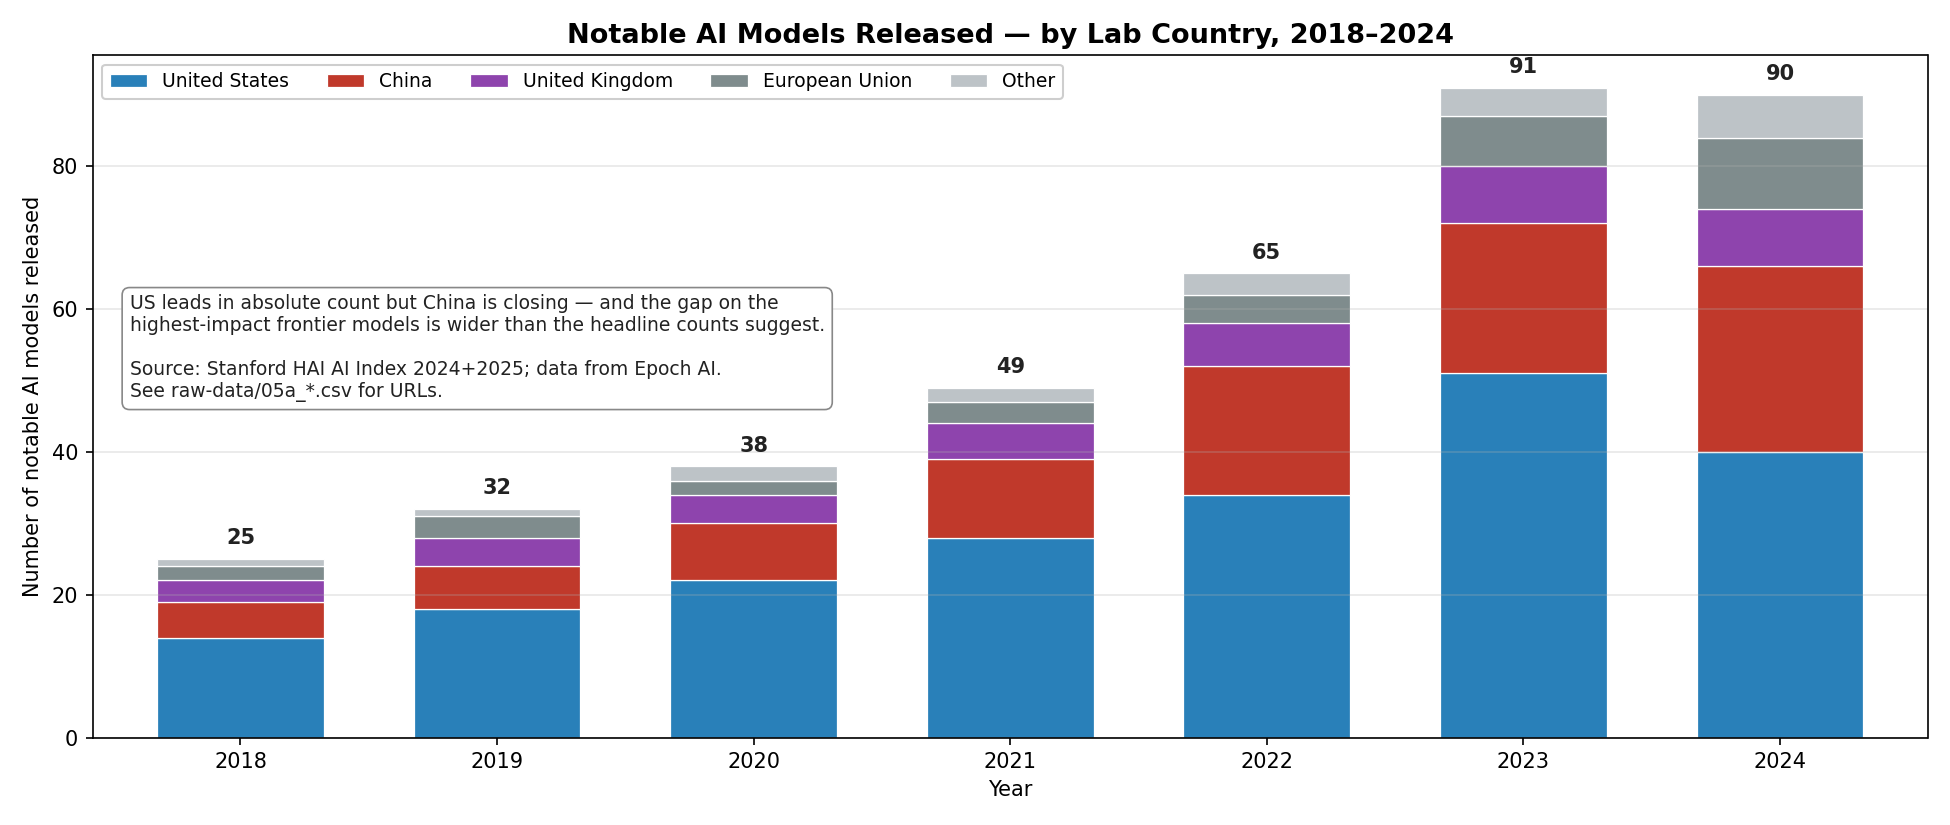
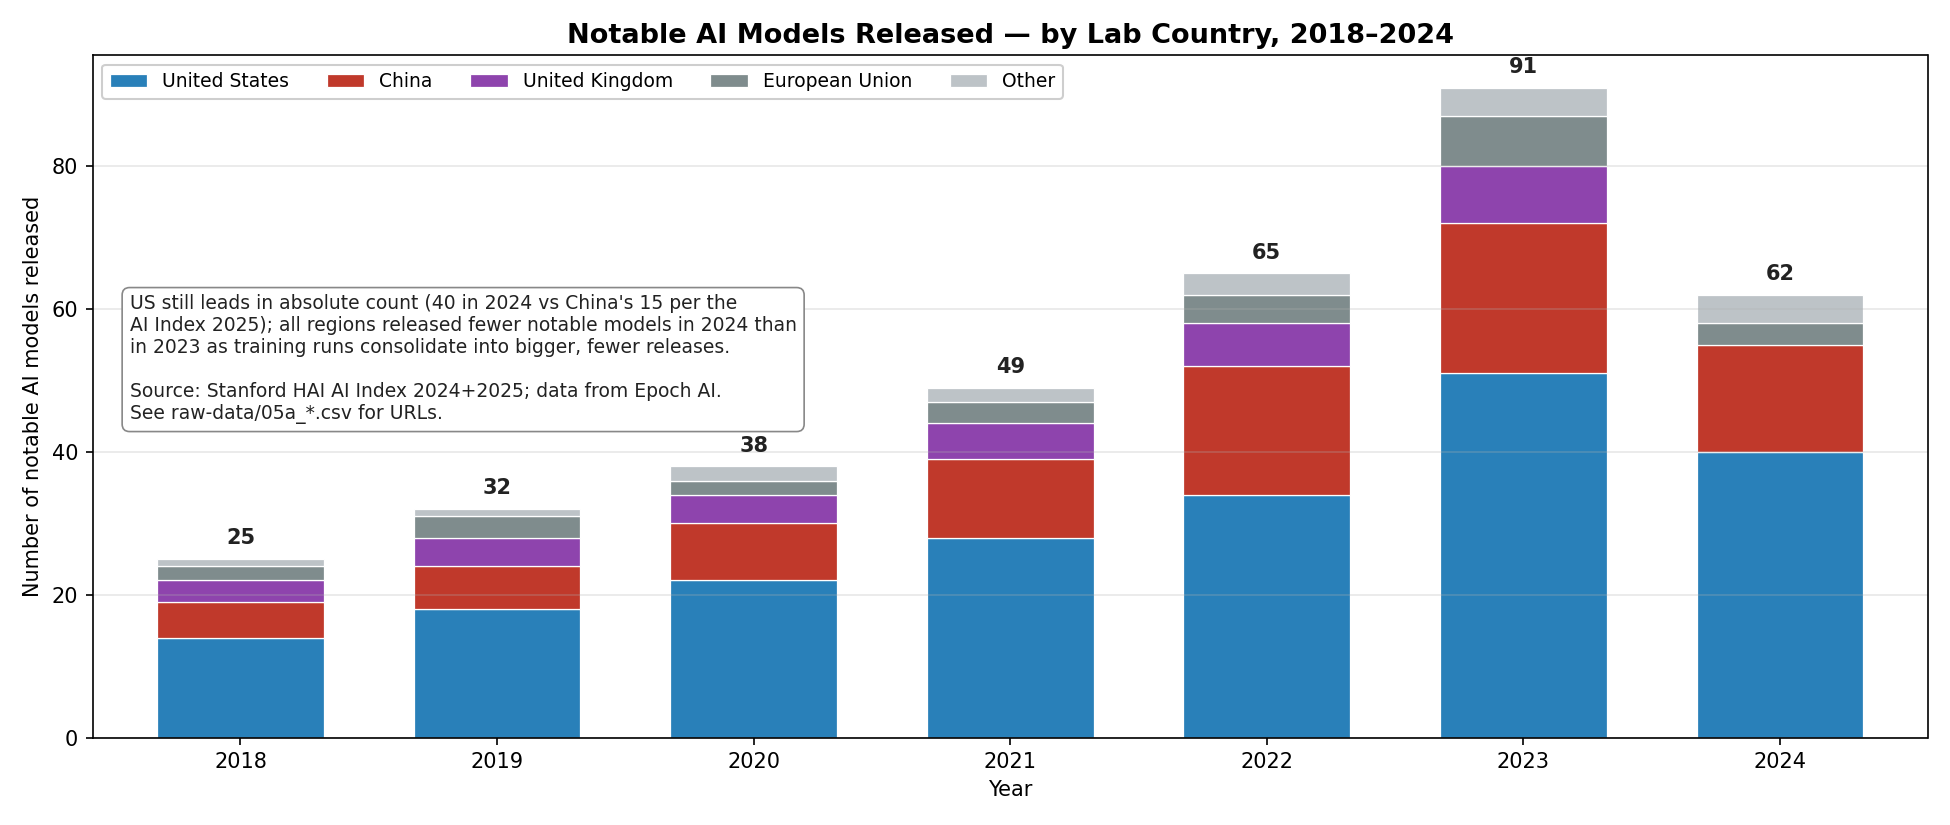
Correct §6 AI figures against cited sources
Re-verified chapter 5 (AI) CSVs against Stanford AI Index 2025 (Ch.1
PDF) and WIPO Patent Landscape Report on Generative AI 2024 (PDF
Figure 17a). Three values did not match their cited sources and have
been corrected:

- 05a (notable AI models, 2024): was US 40 / CN 26 / UK 8 / EU 10 /
  Other 6. AI Index 2025 reports US 40 / CN 15 / France 3 / Canada,
  Israel, Saudi Arabia, Korea 1 each.
- 05c (GenAI patents): the prior time-series treated WIPO's 38,210
  China / 6,276 US figures as 2023 annual when they are cumulative
  2014–2023 totals. Restructured CSV to a single cumulative ranking
  using WIPO Figure 17a exact values; chart rebuilt as horizontal bar.
- 05d (private AI investment, 2024): was US 109 / CN 12 / UK 5 (~9x
  ratio). AI Index 2025 reports US 109.1 / CN 9.3 / UK 4.5 (~12x).

Updated report §6 text and chart annotations to match. Other ~50 CSVs
in the brief were spot-checked against their cited sources (World
Bank API re-fetched for ch.01/02/11f; IEA CMO 2024 / USGS rare earths
/ Ember / IFR / Synergy / CSIS Red Ink / NBS / China Customs / BNEF
press releases) and match within rounding — no other corrections
needed.

Changed region(s): [[0.0615, 0.3333, 0.4308, 0.5455], [0.8615, 0.0606, 0.9538, 0.4242]]

diff --git a/china-industry/05_ai.py b/china-industry/05_ai.py
@@ -68,8 +68,9 @@ for i, t in enumerate(totals):
     ax.text(i, t + 1.5, f"{t}", ha="center", va="bottom",
             fontsize=10, color="#222", fontweight="bold")
 ax.annotate(
-    "US leads in absolute count but China is closing — and the gap on the\n"
-    "highest-impact frontier models is wider than the headline counts suggest.\n\n"
+    "US still leads in absolute count (40 in 2024 vs China's 15 per the\n"
+    "AI Index 2025); all regions released fewer notable models in 2024 than\n"
+    "in 2023 as training runs consolidate into bigger, fewer releases.\n\n"
     "Source: Stanford HAI AI Index 2024+2025; data from Epoch AI.\n"
     "See raw-data/05a_*.csv for URLs.",
     xy=(0.02, 0.65), xycoords="axes fraction",
@@ -122,37 +123,40 @@ print("  saved 05b_top_cited_ai_publications.png")
 
 
 # ---------------------------------------------------------------------------
-# 5c. Generative-AI patent filings by country, 2014–2023
+# 5c. Generative-AI patent families, cumulative 2014–2023, by inventor country
 # ---------------------------------------------------------------------------
-print("Generative-AI patent filings by country...")
-gai_patents = load("05c_gai_patent_filings_by_country", index_col="year")
+print("Generative-AI patent families by country, cumulative 2014–2023...")
+gai_patents = load("05c_gai_patent_filings_by_country")
+gai_patents = gai_patents.sort_values("patent_families_2014_2023", ascending=True)
+
+country_colors = {
+    "China": COLOR_CN, "United States": COLOR_US,
+    "South Korea": COLOR_KR, "Japan": COLOR_JP,
+    "India": COLOR_OTHER, "United Kingdom": COLOR_UK,
+    "Germany": COLOR_EU,
+}
+colors = [country_colors.get(c, COLOR_OTHER) for c in gai_patents["country"]]
 
 fig, ax = plt.subplots(figsize=(13, 5.5))
-for col, color, lw in [("China", COLOR_CN, 2.8),
-                       ("United States", COLOR_US, 2.0),
-                       ("Korea", COLOR_KR, 1.5),
-                       ("Japan", COLOR_JP, 1.5),
-                       ("European Union", COLOR_EU, 1.5)]:
-    ax.plot(gai_patents.index, gai_patents[col], label=col, color=color,
-            linewidth=lw, marker="o", markersize=5)
-ax.fill_between(gai_patents.index, gai_patents["China"], alpha=0.08, color=COLOR_CN)
-ax.set_title("Generative-AI Patent Filings — by Applicant Country, 2014–2023",
+bars = ax.barh(gai_patents["country"], gai_patents["patent_families_2014_2023"],
+               color=colors)
+for bar, val in zip(bars, gai_patents["patent_families_2014_2023"]):
+    ax.text(val + 400, bar.get_y() + bar.get_height() / 2, f"{val:,}",
+            va="center", fontsize=10, fontweight="bold")
+ax.set_title("Generative-AI Patent Families — Cumulative 2014–2023, by Inventor Country",
              fontsize=13, fontweight="bold")
-ax.set_xlabel("Year"); ax.set_ylabel("Generative-AI patent applications per year")
-ax.legend(loc="upper left", fontsize=10, framealpha=0.95)
-ax.grid(axis="y", alpha=0.3)
-ax.set_ylim(0, 42000)
-ax.text(2023 + 0.1, 38000, "38,000", va="center", fontsize=10,
-        color=COLOR_CN, fontweight="bold")
-ax.text(2023 + 0.1, 6300, "6,300", va="center", fontsize=10,
-        color=COLOR_US, fontweight="bold")
+ax.set_xlabel("Patent families filed 2014–2023 (cumulative)")
+ax.set_xlim(0, 42000)
+ax.grid(axis="x", alpha=0.3)
 ax.annotate(
-    "China filed ~6x more generative-AI patents than the US in 2023.\n"
-    "Volume ≠ quality, but the ramp is striking and consistent with the\n"
-    "production-oriented industrial-AI focus of Chinese firms.\n\n"
-    "Source: WIPO Patent Landscape Report on Generative AI 2024.\n"
+    "China filed ~6x more generative-AI patent families than the US over\n"
+    "the decade 2014–2023. WIPO notes that since 2017 China has filed\n"
+    "more GenAI patent families each year than the rest of the world combined.\n"
+    "Volume ≠ quality, but the ramp is consistent with the production-oriented\n"
+    "industrial-AI focus of Chinese firms.\n\n"
+    "Source: WIPO Patent Landscape Report on Generative AI 2024, Figure 17a.\n"
     "See raw-data/05c_*.csv for URLs.",
-    xy=(0.02, 0.70), xycoords="axes fraction",
+    xy=(0.40, 0.40), xycoords="axes fraction",
     fontsize=9, color="#222", va="top", ha="left",
     bbox=dict(boxstyle="round,pad=0.4", facecolor="white",
               edgecolor="#888", linewidth=0.8))
@@ -183,7 +187,7 @@ for i, t in enumerate(totals):
             fontsize=10, color="#222", fontweight="bold")
 ax.annotate(
     "The honest counter-case: US private AI investment in 2024 (\\$109B)\n"
-    "was roughly 9x China's (\\$12B). Closed-frontier model development\n"
+    "was roughly 12x China's (\\$9.3B). Closed-frontier model development\n"
     "still concentrates in well-capitalised US labs.\n\n"
     "Source: Stanford HAI AI Index 2024+2025.\n"
     "See raw-data/05d_*.csv for URLs.",

diff --git a/china-industry/report.md b/china-industry/report.md
@@ -368,13 +368,17 @@ leader/follower binary.
 
 ![Notable AI model releases by lab country, 2018–2024](charts/05a_notable_ai_models.png)
 
-On notable-model output the US is still ahead in absolute count, but
-China is closing fast. In 2018 the US released ~14 notable models per
-year; China released ~5. By 2024 the US is at ~40 (down from a 2023
-spike of 51) and China at ~26. The European Union has accelerated to
-~10. Note that "notable" is Epoch AI's compute/impact threshold; the
-top-end frontier — GPT-class and Claude-class closed models — is
-narrower and is still US-dominated.
+On notable-model output the US is still well ahead in absolute count,
+and the gap actually widened in 2024. In 2018 the US released ~14
+notable models per year; China released ~5. The 2024 Stanford AI Index
+(Epoch AI database, March 2025 snapshot) puts the US at 40 notable
+models, China at 15, France at 3, with single releases from Canada,
+Israel, Saudi Arabia and South Korea. All major regions released fewer
+notable models in 2024 than in 2023 — driven by larger training runs
+concentrating output in fewer, bigger releases. Note that "notable" is
+Epoch AI's compute/impact threshold; the top-end frontier — GPT-class
+and Claude-class closed models — is narrower still and remains
+US-dominated.
 
 ![Top-1% most-cited AI publications](charts/05b_top_cited_ai_publications.png)
 
@@ -383,23 +387,27 @@ of top-1% most-cited AI publications. Citation-based rankings reflect
 partly self-citation patterns; the directional crossover and ongoing
 trend are robust across the methods used by Stanford HAI, NSF, and CSET.
 
-![Generative-AI patent filings by country](charts/05c_gai_patent_filings.png)
+![Generative-AI patent families, cumulative 2014–2023, by inventor country](charts/05c_gai_patent_filings.png)
 
 The patent picture is the starkest of the three. Generative-AI patent
-filings — a sub-set of all AI patents that WIPO's 2024 Patent Landscape
-Report breaks out specifically — show China filing roughly 6x more
-GenAI applications than the US in 2023 (38,000 vs 6,300). Volume is not
+families — a sub-set of all AI patents that WIPO's 2024 Patent Landscape
+Report breaks out specifically — show China filing 38,210 cumulative
+families across 2014–2023, against 6,276 for the US. That's a ~6x lead
+across the decade, with China outpacing the rest of the world combined
+every year since 2017. By 2023 alone, global annual GenAI filings had
+risen above 14,000, of which ~70% originated in China. Volume is not
 quality, but the ramp is consistent with the production-oriented
 industrial-AI focus of Chinese firms.
 
 ![Private AI investment, USD billion](charts/05d_private_ai_investment.png)
 
 Private investment is where the honest counter-case lives. US private
-AI investment in 2024 was ~\$109 billion — roughly 9x China's ~\$12
-billion in the Stanford AI Index aggregation. Closed-frontier-model
-development (Anthropic, OpenAI, Google DeepMind, xAI) is concentrated
-in US-headquartered labs with capital, infrastructure, and chip access
-that Chinese firms cannot fully match under current export controls.
+AI investment in 2024 was \$109.1 billion — roughly 12x China's
+\$9.3 billion in the Stanford AI Index aggregation, and ~24x the UK's
+\$4.5 billion. Closed-frontier-model development (Anthropic, OpenAI,
+Google DeepMind, xAI) is concentrated in US-headquartered labs with
+capital, infrastructure, and chip access that Chinese firms cannot
+fully match under current export controls.
 
 ![Open-weight LLM leaderboard, Q1 2025](charts/05e_open_weight_leaderboard.png)
 
@@ -414,12 +422,12 @@ triggered a substantial market reassessment of the AI-compute cost
 curve. Closed-frontier rankings (GPT-4o, o1, Claude 3.5, Gemini 1.5)
 remain US-dominated and are not included on this chart.
 
-The composite AI picture, then, is asymmetric. China leads on volume of
-new models, citation share, GenAI patents and open-weight quality;
-the US leads on capital, closed-frontier models, and per-firm compute
-access. Both leaderboards are moving fast enough that any single-quarter
-snapshot will be obsolete within ~6 months; the trend, not the snapshot,
-is the read.
+The composite AI picture, then, is asymmetric. China leads on citation
+share, GenAI patents and open-weight model quality; the US leads on
+notable-model count, capital, closed-frontier models, and per-firm
+compute access. Both leaderboards are moving fast enough that any
+single-quarter snapshot will be obsolete within ~6 months; the trend,
+not the snapshot, is the read.
 
 ---
 
